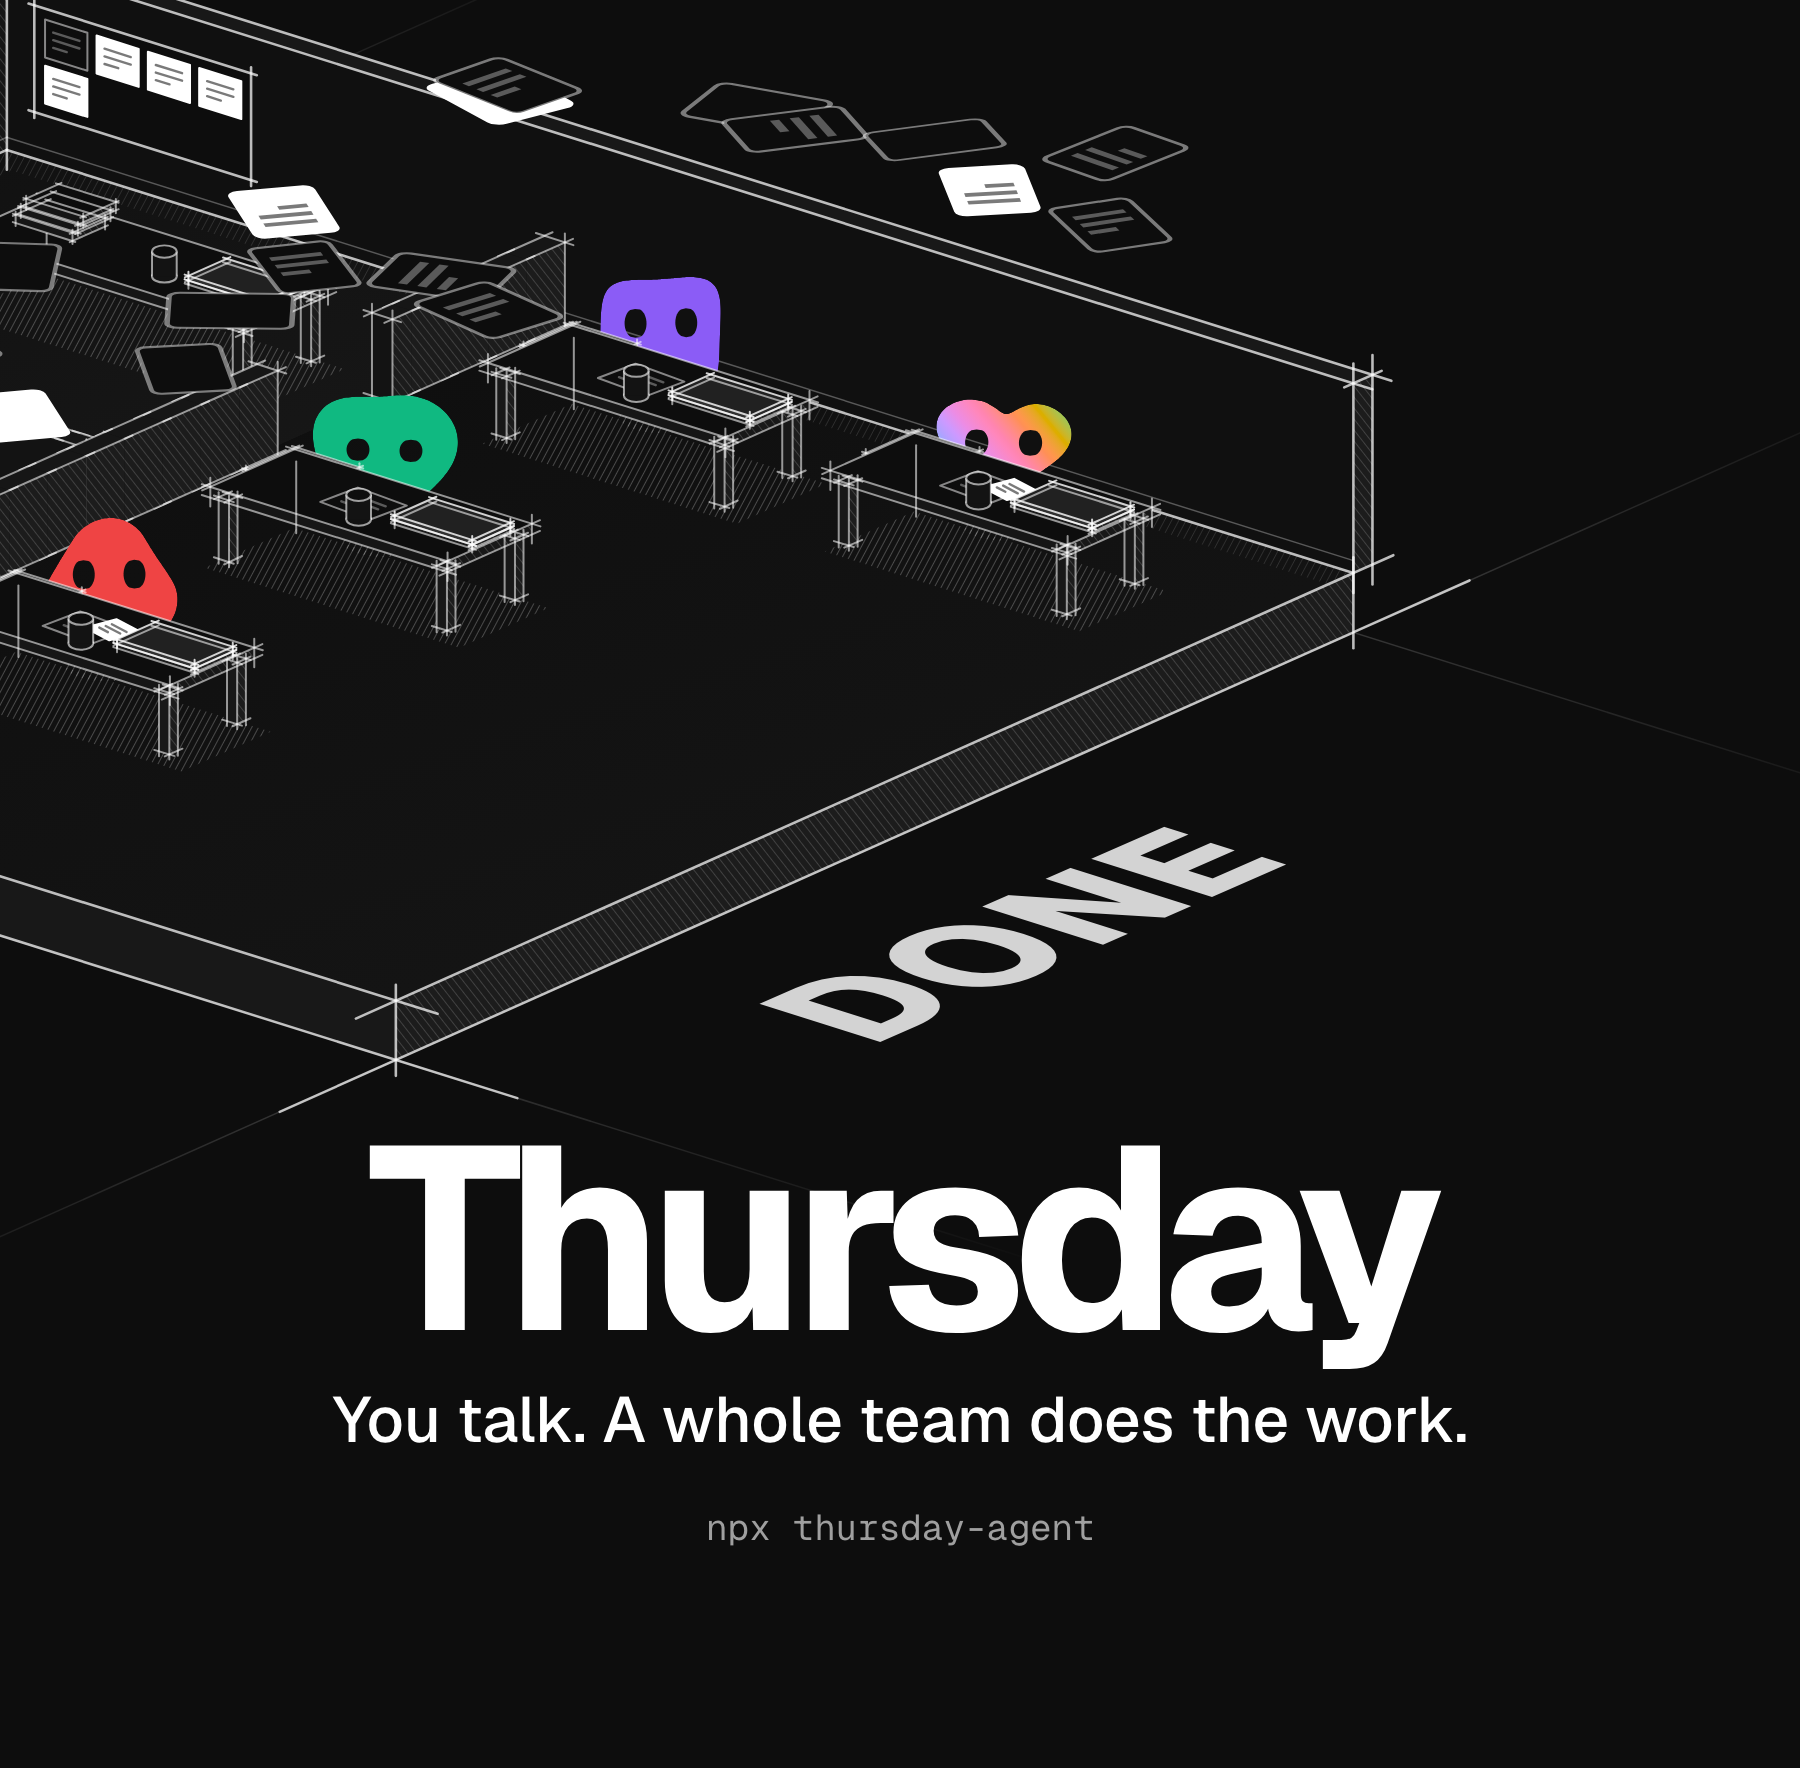
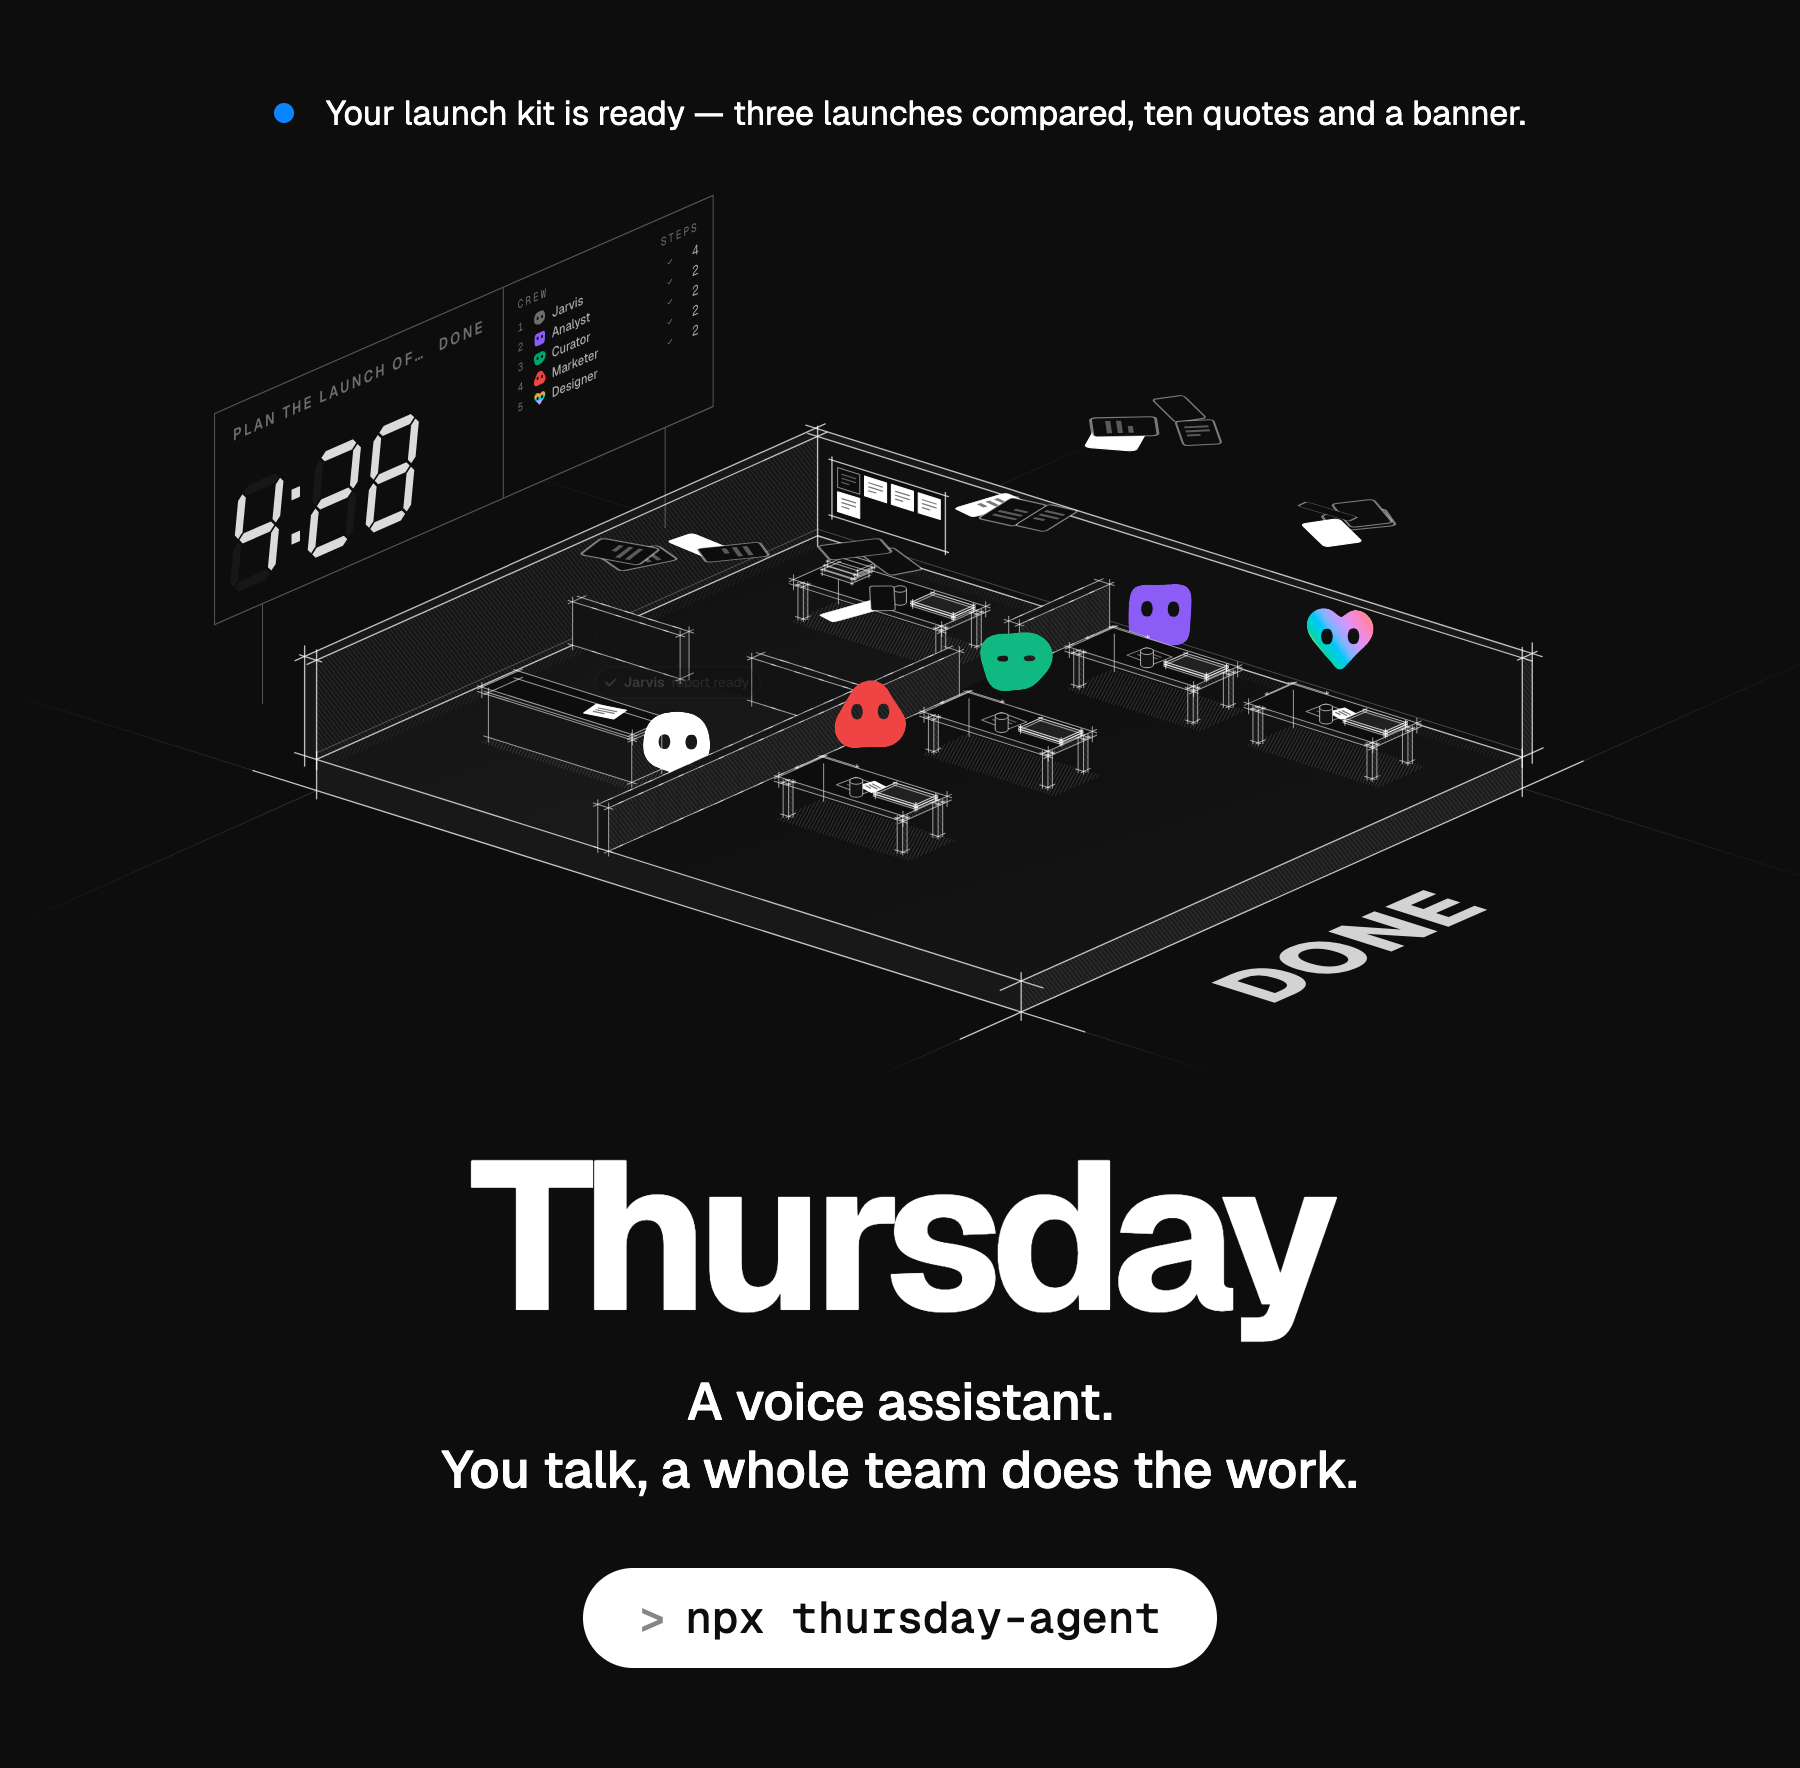
docs(readme): the hero says she is a voice assistant, shows her words over the office and its scoreboard, and gives the install command as a button
The owner looked at the office hero and found the install command faint (36 px grey on an
1800 px picture, about 18 px at the README's 880), nothing saying she is a voice assistant, and
neither the scoreboard nor her words with the blue dot in sight. They picked a layout from three
drawn options and asked for those two things in it, and for the moment the bots throw their
papers rather than after the papers have landed.

The office is drawn by the film kit from the app's own components (kit repo at the office
redesign), 2.9 s into the done job's film clock: every bot in the air, the papers leaving their
hands. The boss's plate is dim then, as the app dims every plate while papers fly. The camera
takes in the scoreboard at the back. Her line is drawn as the call screen draws it over an
office (features/thursday/components/thursday.tsx): the brand dot, then her words. Under it the
name, "A voice assistant. You talk, a whole team does the work.", and `npx thursday-agent` on a
black pill, the app's colour for what to press (taste.md: blue is rare; buttons are black). Type
is Geist and Geist Mono, colours the app's light and dark tokens. Gaps are measured between ink
edges on an 8 px grid, the scene set apart from the words by the widest one.

Changed region(s): [[0.0, 0.0, 0.84, 0.9644], [0.1867, 0.0311, 0.84, 0.1867], [0.84, 0.3733, 0.8711, 0.4355]]

diff --git a/README.ko.md b/README.ko.md
@@ -3,7 +3,7 @@
 <a href="https://youtu.be/7XmsAtwQGjo">
   <picture>
     <source media="(prefers-color-scheme: dark)" srcset="https://raw.githubusercontent.com/cgoinglove/thursday/main/docs/images/hero-dark.png">
-    <img src="https://raw.githubusercontent.com/cgoinglove/thursday/main/docs/images/hero-light.png" alt="Thursday — 나는 말하고, 팀 하나가 일한다. 사무실로 그려진 일이 끝나고, 봇들이 서류를 던지며 뛰어오른다" width="880">
+    <img src="https://raw.githubusercontent.com/cgoinglove/thursday/main/docs/images/hero-light.png" alt="Thursday, 음성 비서 — 나는 말하고, 팀 하나가 일한다. 위에서 그녀가 런칭 키트가 준비됐다고 말하고, 그 아래 봇들이 일을 끝낸 사무실이 있다. 뒤에는 전광판, 바닥에는 DONE" width="880">
   </picture>
 </a>
 

diff --git a/README.md b/README.md
@@ -3,7 +3,7 @@
 <a href="https://youtu.be/7XmsAtwQGjo">
   <picture>
     <source media="(prefers-color-scheme: dark)" srcset="https://raw.githubusercontent.com/cgoinglove/thursday/main/docs/images/hero-dark.png">
-    <img src="https://raw.githubusercontent.com/cgoinglove/thursday/main/docs/images/hero-light.png" alt="Thursday — you talk, a whole team does the work: a job drawn as an office, done, its bots leaping with their papers in the air" width="880">
+    <img src="https://raw.githubusercontent.com/cgoinglove/thursday/main/docs/images/hero-light.png" alt="Thursday, a voice assistant: you talk, a whole team does the work. Above, she says your launch kit is ready, over the office where her bots made it, its scoreboard at the back and DONE on the floor" width="880">
   </picture>
 </a>
 
